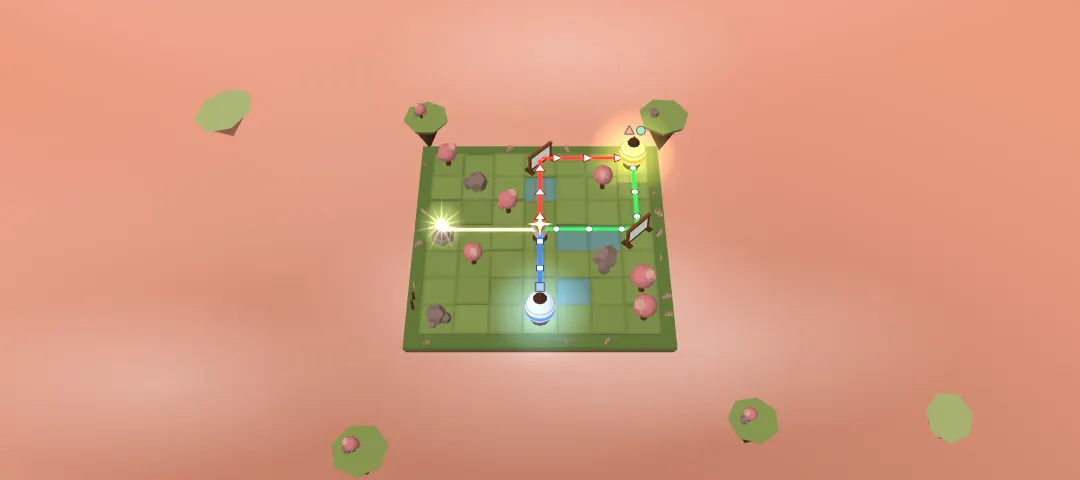
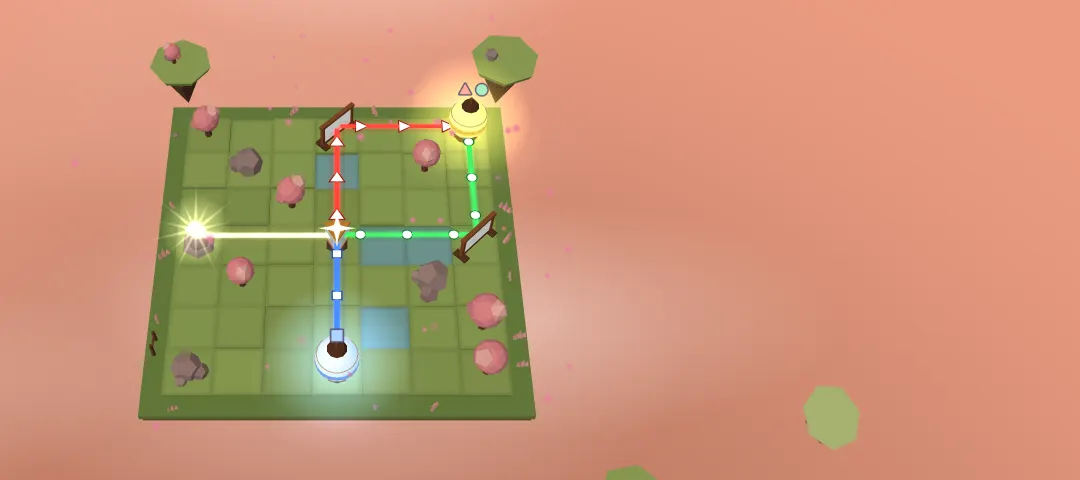
Every daily feed card shows its own island, rendered from the 3D scene
90 pictures (npm run day-cards), unsolved and in the afternoon light a player first sees, about
9 KB each; a card downloads only its own and falls back to its world's stock picture. The stock
pictures are re-rendered with the new camera and the atmosphere pass.

diff --git a/src/client/preview.ts b/src/client/preview.ts
@@ -33,6 +33,15 @@ const HERO: Record<Biome, string> = {
   autumn: new URL('./assets/hero/autumn.webp', import.meta.url).href,
 };
 
+/**
+ * Phase 4: each daily island's own picture, rendered unsolved from the real 3D scene by
+ * `npm run day-cards` (about 7 KB each; only the one in use is downloaded). A day without one
+ * fails to load and falls back to the stock picture of its world.
+ */
+function dayPicture(day: number): string {
+  return new URL(`./assets/days/${day}.webp`, import.meta.url).href;
+}
+
 /** Hand-drawn, single stroke, like the game's icons. Drawn on a 20 x 20 grid. */
 const TICK = 'M4.2 10.6l3.9 3.900 7.800-8.700';
 const FLAME =
@@ -166,12 +175,17 @@ function paint(): void {
       // The island's own world: a community island's, or a picked Sunday's maker's.
       const stock = HERO[post.biome ?? biomeOfDay(post.day)];
       hero.addEventListener('load', () => hero.classList.add('shown'));
-      // The island's own picture when the post has one; the world's stock picture otherwise,
-      // and whenever the picture cannot be loaded.
+      // The island's own picture; the world's stock picture whenever it cannot be loaded.
       hero.addEventListener('error', () => {
         if (!hero.src.endsWith(stock)) hero.src = stock;
       });
-      hero.src = post.picture ?? stock;
+      // A daily post (or an unpicked Sunday) shows its own island; a community island or a
+      // picked Sunday shows the picture taken at Publish, when there is one.
+      const own =
+        post.kind === 'community' || post.maker !== undefined
+          ? undefined
+          : dayPicture(post.day);
+      hero.src = post.picture ?? own ?? stock;
     }
   }
   if (refused !== null) {
